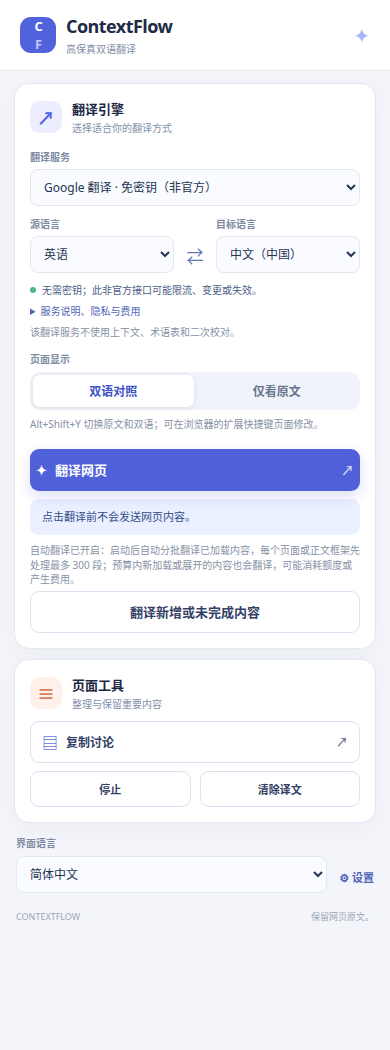
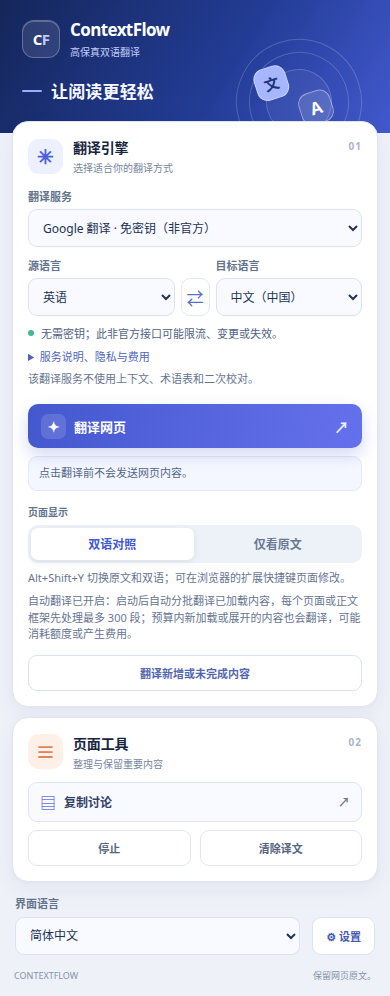
style: 优化翻译弹窗界面

diff --git a/ui.css b/ui.css
@@ -103,3 +103,95 @@ hr { border: 0; border-top: 1px solid #e6e9f2; margin: 20px 0; }
 .popup-bottom .field { flex: 1; margin: 0; }
 .settings-link { border: 0; background: none; color: #5264b7; padding: 8px 0; font-size: 11px; font-weight: 700; }
 .popup-footer { display: flex; justify-content: space-between; gap: 8px; padding: 15px 2px 0; color: #9aa5b7; font-size: 9px; }
+
+/* Popup visual system. Scoped to the popup so the settings page stays unchanged. */
+.popup-body {
+  color: #172440;
+  background: #eef1f8;
+}
+.popup-body .popup-header {
+  position: relative;
+  display: block;
+  overflow: hidden;
+  padding: 18px 22px 30px;
+  border: 0;
+  background: linear-gradient(122deg, #15265a 0%, #233d97 58%, #5266e8 120%);
+  color: #fff;
+}
+.popup-body .popup-brand { position: relative; z-index: 1; gap: 10px; }
+.popup-body .popup-logo {
+  display: flex;
+  justify-content: center;
+  align-items: center;
+  width: 38px;
+  height: 38px;
+  border: 1px solid #ffffff40;
+  border-radius: 12px;
+  background: #ffffff1a;
+  box-shadow: inset 0 1px 0 #ffffff38;
+  font-size: 15px;
+  letter-spacing: -.05em;
+}
+.popup-body .popup-logo span { color: #bfcaff; }
+.popup-body .popup-brand h1 { color: #fff; font-size: 17px; letter-spacing: -.035em; }
+.popup-body .popup-kicker { color: #c0cdf8; font-size: 10px; }
+.header-hero { position: relative; z-index: 1; display: flex; align-items: center; gap: 9px; margin-top: 19px; }
+.header-hero p { margin: 0; max-width: 250px; color: #f6f8ff; font-size: 17px; font-weight: 750; letter-spacing: .01em; }
+.hero-rule { width: 20px; height: 2px; flex: none; border-radius: 9px; background: #9baeff; }
+.header-art { position: absolute; right: 28px; bottom: -32px; width: 126px; height: 126px; border: 1px solid #ffffff30; border-radius: 50%; transform: rotate(-18deg); }
+.header-art::before, .header-art::after { content: ""; position: absolute; border: 1px solid #ffffff30; border-radius: 50%; }
+.header-art::before { inset: 12px; }
+.header-art::after { inset: 29px; background: #ffffff0d; }
+.header-art span, .header-art i { position: absolute; z-index: 1; display: grid; place-items: center; width: 33px; height: 33px; border: 1px solid #ffffff66; border-radius: 11px; font-style: normal; font-weight: 750; }
+.header-art span { top: 19px; left: 25px; background: #a6b6ff; color: #203477; font-size: 15px; }
+.header-art i { top: 56px; left: 60px; background: #ffffff20; color: white; font-size: 17px; }
+.popup-body .popup-main { position: relative; margin-top: -12px; padding: 0 12px 14px; }
+.popup-body .popup-card { padding: 15px; margin-bottom: 10px; border: 1px solid #dfe5f1; border-radius: 16px; box-shadow: 0 7px 23px #1e306c0d, 0 1px 3px #1e306c08; }
+.popup-body .card-heading { gap: 10px; margin-bottom: 13px; }
+.popup-body .card-heading strong { color: #172440; font-size: 14px; letter-spacing: -.01em; }
+.popup-body .card-heading p { margin-top: 3px; color: #7886a0; font-size: 10px; }
+.popup-body .section-icon { width: 35px; height: 35px; border-radius: 11px; background: #edf0ff; color: #4c60dd; font-size: 20px; }
+.popup-body .section-icon.peach { background: #fff0e7; color: #dc865e; }
+.heading-number { margin-left: auto; align-self: flex-start; padding-top: 2px; color: #aab5c9; font-size: 10px; font-weight: 800; letter-spacing: .1em; }
+.popup-body .popup-card .field { gap: 5px; margin-bottom: 10px; }
+.popup-body .popup-card .field label, .popup-body .popup-bottom .field label { color: #64748d; font-size: 11px; font-weight: 750; }
+.popup-body .popup-card .field select, .popup-body .popup-bottom .field select { min-height: 38px; padding: 8px 10px; border: 1px solid #dbe3f0; border-radius: 9px; background: #f8faff; color: #223253; font-size: 12px; }
+.popup-body .popup-card .field select:focus, .popup-body .popup-bottom .field select:focus { border-color: #6578e8; box-shadow: 0 0 0 3px #6578e825; }
+.popup-body .language-pair { gap: 6px; }
+.popup-body .pair-arrow { margin-bottom: 10px; width: 29px; height: 38px; border: 1px solid #e3e8f3; border-radius: 9px; background: #fff; color: #586ed0; }
+.popup-body .pair-arrow:hover { background: #eff2ff; }
+.popup-body .provider-note { gap: 7px; color: #51627f; font-size: 11px; line-height: 1.5; }
+.popup-body .note-dot { background: #45b988; }
+.popup-body .provider-privacy { color: #667590; font-size: 11px; line-height: 1.5; }
+.popup-body .provider-details summary, .popup-body .provider-link { color: #5065ba; font-size: 11px; }
+.popup-body .popup-primary {
+  justify-content: flex-start;
+  min-height: 44px;
+  margin-top: 13px;
+  padding: 0 13px;
+  border: 0;
+  border-radius: 10px;
+  background: linear-gradient(100deg, #4458ce, #6571ec);
+  box-shadow: 0 7px 16px #4c5fd23d;
+  color: #fff;
+  font-size: 13px;
+}
+.popup-body .popup-primary:hover { background: linear-gradient(100deg, #394bc0, #5964dd); }
+.popup-body .primary-spark { display: grid; place-items: center; width: 25px; height: 25px; border-radius: 7px; background: #ffffff24; font-size: 14px; }
+.popup-body .popup-primary .button-arrow { font-size: 15px; opacity: .9; }
+.popup-body .popup-main .message { margin: 8px 0 0; padding: 8px 10px; border: 1px solid #e3e9f7; border-radius: 9px; background: #f4f7ff; color: #526687; font-size: 11px; }
+.popup-body .popup-main .message.error { border-color: #f7d9d2; background: #fff0ed; color: #96382e; }
+.popup-body .popup-main .message.success { border-color: #ccebdc; background: #e6f5ee; color: #1b6b4f; }
+.popup-body .display-label { margin-top: 13px; color: #64748d; }
+.popup-body .display-switch { margin-top: 6px; padding: 3px; background: #edf1f8; }
+.popup-body .display-option { min-height: 32px; color: #697993; }
+.popup-body .display-option[aria-pressed="true"] { color: #4259d3; box-shadow: 0 2px 7px #28386418; }
+.popup-body #continue { min-height: 36px; margin-top: 8px; color: #5366b0; font-size: 11px; }
+.popup-body .tools-card .card-heading { margin-bottom: 11px; }
+.popup-body .tool-button { min-height: 40px; border-color: #dfe5f1; background: #f9faff; }
+.popup-body .tools-card .two .button { border-color: #e1e7f2; color: #566680; }
+.popup-body .popup-bottom { padding: 3px 3px 0; }
+.popup-body .settings-link { min-height: 38px; padding: 0 13px; border: 1px solid #dce3f0; border-radius: 9px; background: #fff; color: #465bb3; }
+.popup-body .settings-link:hover { background: #f6f8ff; }
+.popup-body button:focus-visible, .popup-body summary:focus-visible { outline: 2px solid #7789fa; outline-offset: 2px; }
+.popup-body .popup-footer { padding-top: 14px; color: #8392aa; }

diff --git a/popup.html b/popup.html
@@ -8,12 +8,13 @@
 </head>
 <body class="popup-body">
   <header class="popup-header">
-    <div class="popup-brand"><div class="popup-logo">C<span>F</span></div><div><h1>ContextFlow</h1><div class="popup-kicker" data-i18n="popupSubtitle">Bilingual translator</div></div></div>
-    <div class="header-mark">✦</div>
+    <div class="popup-brand"><div class="popup-logo" aria-hidden="true">C<span>F</span></div><div><h1>ContextFlow</h1><div class="popup-kicker" data-i18n="popupSubtitle">Bilingual translator</div></div></div>
+    <div class="header-hero"><span class="hero-rule" aria-hidden="true"></span><p data-i18n="workspace">Your reading companion</p></div>
+    <div class="header-art" aria-hidden="true"><span>文</span><i>A</i></div>
   </header>
   <main class="popup-main">
     <section class="popup-card" aria-label="Translation">
-      <div class="card-heading"><div class="section-icon">↗</div><div><strong data-i18n="engineTitle">Translation engine</strong><p data-i18n="engineSubtitle">Choose how to translate</p></div></div>
+      <div class="card-heading"><div class="section-icon" aria-hidden="true">✳</div><div><strong data-i18n="engineTitle">Translation engine</strong><p data-i18n="engineSubtitle">Choose how to translate</p></div><span class="heading-number" aria-hidden="true">01</span></div>
       <div class="field"><label for="provider" data-i18n="provider">Provider</label><select id="provider" disabled><option value="mymemory" data-i18n="freeProvider">MyMemory · free</option><option value="google-web" data-i18n="googleWebProvider">Google Translate · free (unofficial)</option><option value="baidu" data-i18n="baiduProvider">Baidu Translate</option><option value="libre-local" data-i18n="libreProvider">LibreTranslate · local</option><option value="google">Google Cloud Translation</option><option value="youdao" data-i18n="youdaoProvider">Youdao Cloud Translation</option><option value="microsoft" data-i18n="microsoftProvider">Microsoft Translator</option><option value="ai" data-i18n="aiProvider">Your AI model</option></select></div>
       <div id="free-controls">
         <div class="language-pair"><div class="field"><label for="freeSource" data-i18n="source">Source language</label><select id="freeSource" disabled></select></div><button type="button" class="pair-arrow" id="swapLanguages" disabled><span aria-hidden="true">⇄</span><span class="sr-only" data-i18n="swapLanguages">Swap languages</span></button><div class="field"><label for="freeTarget" data-i18n="target">Target language</label><select id="freeTarget" disabled></select></div></div>
@@ -54,19 +55,19 @@
       </div>
       <div id="ai-controls" hidden><div class="model-line"><span data-i18n="activeModel">Active AI model</span><strong id="model" data-i18n="loading">Loading…</strong><span id="detail"></span></div><p class="provider-privacy" data-i18n="aiNote">Configure your model and endpoint in Settings.</p></div>
       <p class="provider-privacy" id="kaggleInfo" data-i18n="kaggleAccess" hidden></p>
+      <button type="button" class="button primary popup-primary" id="start" disabled><span class="primary-spark" aria-hidden="true">✦</span><span data-i18n="start">Translate page</span><span class="button-arrow" aria-hidden="true">↗</span></button>
+      <div id="message" class="message" role="status" data-i18n="popupHint">Page content is not sent until you click Translate.</div>
       <div class="display-label" id="display-label" data-i18n="displayMode">Page display</div>
       <div class="display-switch" role="group" aria-labelledby="display-label">
         <button type="button" class="display-option" id="mode-bilingual" aria-pressed="true" data-i18n="displayBilingual">Bilingual</button>
         <button type="button" class="display-option" id="mode-original" aria-pressed="false" data-i18n="displayOriginal">Original</button>
       </div>
       <p class="provider-privacy" data-i18n="displayShortcut">Alt+Shift+Y switches the display; customize it in browser extension shortcuts.</p>
-      <button type="button" class="button primary popup-primary" id="start" disabled><span>✦</span><span data-i18n="start">Translate page</span><span class="button-arrow">↗</span></button>
-      <div id="message" class="message" role="status" data-i18n="popupHint">Page content is not sent until you click Translate.</div>
       <p class="provider-privacy" id="dynamicInfo"></p>
       <button type="button" class="button" id="continue" data-i18n="continueTranslation" disabled>Translate new or unfinished content</button>
     </section>
     <section class="popup-card tools-card">
-      <div class="card-heading"><div class="section-icon peach">≡</div><div><strong data-i18n="toolsTitle">Page tools</strong><p data-i18n="toolsSubtitle">Keep what matters</p></div></div>
+      <div class="card-heading"><div class="section-icon peach" aria-hidden="true">≡</div><div><strong data-i18n="toolsTitle">Page tools</strong><p data-i18n="toolsSubtitle">Keep what matters</p></div><span class="heading-number" aria-hidden="true">02</span></div>
       <button type="button" class="button tool-button" id="copy-discussion"><span class="tool-glyph">▤</span><span data-i18n="copy">Copy discussion</span><span class="button-arrow">↗</span></button>
       <div class="two"><button type="button" class="button" id="stop" data-i18n="stop">Stop</button><button type="button" class="button" id="clear" data-i18n="clear">Remove translations</button></div>
     </section>

diff --git a/CHANGELOG.md b/CHANGELOG.md
@@ -2,6 +2,8 @@
 
 ## Unreleased
 
+- Refreshed the translation popup with a more prominent reading header,
+  clearer controls, and an updated screenshot in the illustrated guide.
 - Let the floating translation button stop translation and remove the page's
   translations on a second click, including Kaggle Notebook content frames.
 - Keep translations inside ordinary text blocks to prevent grid and nested
